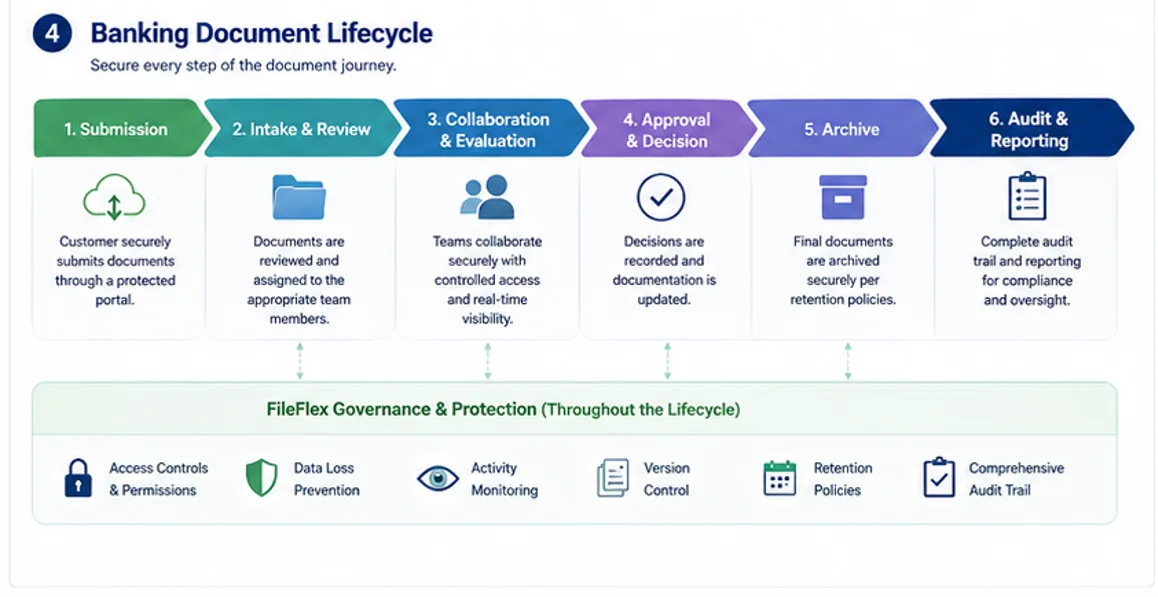
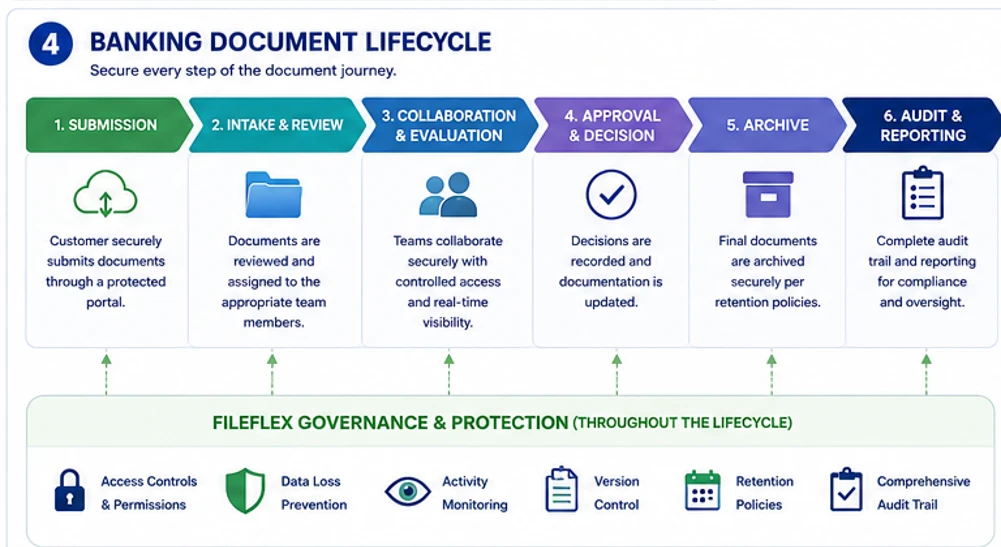
Update banking page with sharper graphics and relocated hero image
Replace existing infographics with higher-resolution versions and restructure the hero section to accommodate the relocated workflow graphic.

Replit-Commit-Author: Agent
Replit-Commit-Session-Id: 9988bd6a-7af4-46df-818a-7f4167653439
Replit-Commit-Checkpoint-Type: full_checkpoint
Replit-Commit-Event-Id: ed369c98-1c6e-4292-a988-129eafe0d8b9
Replit-Commit-Screenshot-Url: https://storage.googleapis.com/screenshot-production-us-central1/2b2fe10e-2a6e-4032-98e7-10d94dd01899/9988bd6a-7af4-46df-818a-7f4167653439/D345Hz9
Replit-Helium-Checkpoint-Created: true

diff --git a/src/styles/banking.css b/src/styles/banking.css
@@ -19,13 +19,9 @@
   background: linear-gradient(90deg, rgba(2,6,12,0.9) 0%, rgba(2,6,12,0.72) 50%, rgba(2,6,12,0.45) 100%);
   z-index: -1;
 }
-.bk-hero__grid {
-  max-width: 1200px;
+.bk-hero__content {
+  max-width: 900px;
   margin: 0 auto;
-  display: grid;
-  grid-template-columns: 1.1fr 0.9fr;
-  gap: 56px;
-  align-items: center;
 }
 .bk-hero__eyebrow {
   display: inline-block;
@@ -52,16 +48,6 @@
   margin: 0 0 32px;
 }
 .bk-hero__ctas { display: flex; flex-wrap: wrap; gap: 16px; align-items: center; }
-.bk-hero__figure { margin: 0; }
-.bk-hero__figure img {
-  width: 100%;
-  height: auto;
-  display: block;
-  border-radius: 16px;
-  background: #fff;
-  padding: 10px;
-  box-shadow: 0 40px 90px -45px rgba(0,0,0,0.8);
-}
 
 /* ---------- SHARED INFOGRAPHIC FIGURE ---------- */
 .bk-figure {
@@ -393,8 +379,6 @@
 
 /* ---------- RESPONSIVE ---------- */
 @media (max-width: 1024px) {
-  .bk-hero__grid { grid-template-columns: 1fr; gap: 40px; }
-  .bk-hero__figure { max-width: 560px; }
   .bk-grid-3, .bk-uc__grid { grid-template-columns: repeat(2, 1fr); }
   .bk-grid-4 { grid-template-columns: repeat(2, 1fr); }
   .bk-flow { grid-template-columns: 1fr; gap: 36px; }
